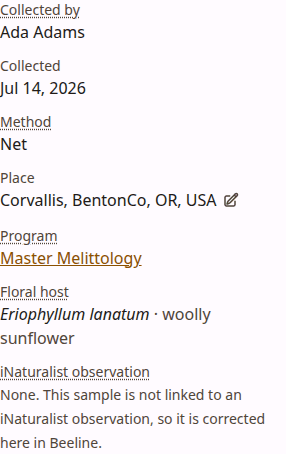
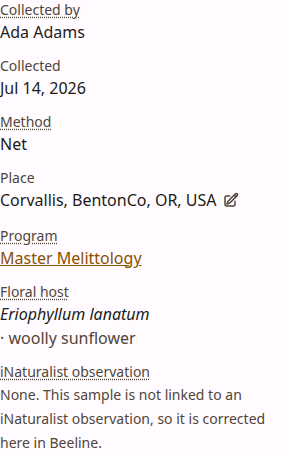
Keep a host's dot and common name whole when they wrap, and say the title-case conversion is still to come (beeline-rfkj.3)
The dot and the common name are now one inline block, so a name that does not
fit on the line moves to the next line whole instead of splitting after its
first word; one longer than the line still wraps inside itself. At full width
the line is unchanged. The names guide says so, and no longer says that
iNaturalist's title case is already converted: it is to be (beeline-rfkj.9),
and until then iNaturalist's names show in its own title case.

Changed region(s): [[0.0, 0.7093, 0.4755, 0.7709], [0.5594, 0.6784, 0.7552, 0.7093]]

diff --git a/src/app/views/design/names.tsx b/src/app/views/design/names.tsx
@@ -238,8 +238,8 @@ export function DesignNames() {
         </li>
         <li>
           <strong>Not by colour alone</strong> (WCAG 1.4.1, use of colour). The dot separates the two names visually;
-          a screen reader hears a comma. The dot and the common name wrap together, so a narrow screen never strands a
-          dot at the end of a line.
+          a screen reader hears a comma. The dot and the common name are kept together: when they do not fit on the
+          line, they move to the next line whole, so a narrow screen never strands a dot at the end of a line.
         </li>
         <li>
           <strong>When iNaturalist now calls the taxon something else,</strong> the common name stays on the first
@@ -251,7 +251,7 @@ export function DesignNames() {
           journals lower-case them, while the APGA guide capitalises each word so they read as names. What matters is
           one rule everywhere. Beeline sets them in sentence case, with capitals only for proper nouns (&ldquo;Oregon
           grape&rdquo;), so &ldquo;silverleaf phacelia&rdquo;, not &ldquo;Silverleaf Phacelia&rdquo;. They are common
-          nouns. iNaturalist&rsquo;s title case is converted (beeline-rfkj.9).
+          nouns. iNaturalist&rsquo;s title case is to be converted (beeline-rfkj.9); until then, iNaturalist&rsquo;s names show in its own title case.
         </li>
       </ul>
 

diff --git a/src/app/views/components/taxon.tsx b/src/app/views/components/taxon.tsx
@@ -108,9 +108,10 @@ export function TaxonName(props: TaxonNameProps) {
         {vernacular ? (
           <>
             {" "}
-            {/* The dot and the name wrap together: the space after the dot is
-                non-breaking, so a narrow screen moves "· woolly sunflower" to
-                the next line whole and never strands a dot at the end of one. */}
+            {/* The dot and the name are one inline block (components.css), with a
+                non-breaking space after the dot: a narrow screen moves "· woolly
+                sunflower" to the next line whole and never strands a dot at the
+                end of one. The ordinary space before it is the break point. */}
             <span class="taxon-vernacular">
               <span aria-hidden="true">·</span>
               <span class="visually-hidden">, </span>

diff --git a/src/app/static/components.css b/src/app/static/components.css
@@ -584,9 +584,14 @@ th details.col-menu > .menu-panel {
 .taxon i { font-style: italic; }
 .taxon-authorship { color: var(--md-sys-color-on-surface-variant); }
 /* The English name, on the scientific name's line: upright even inside an
-   italic context, secondary colour, regular weight. Positioned so the hidden
+   italic context, secondary colour, regular weight. An inline block, so the
+   dot and the name move to the next line whole when they do not fit; the
+   ordinary space before it is the break point, and a name longer than the
+   line still wraps inside itself (max-width). Positioned so the hidden
    comma inside it is placed against it (see .absent). */
 .taxon-vernacular {
+  display: inline-block;
+  max-width: 100%;
   position: relative;
   font-style: normal;
   font-weight: normal;
